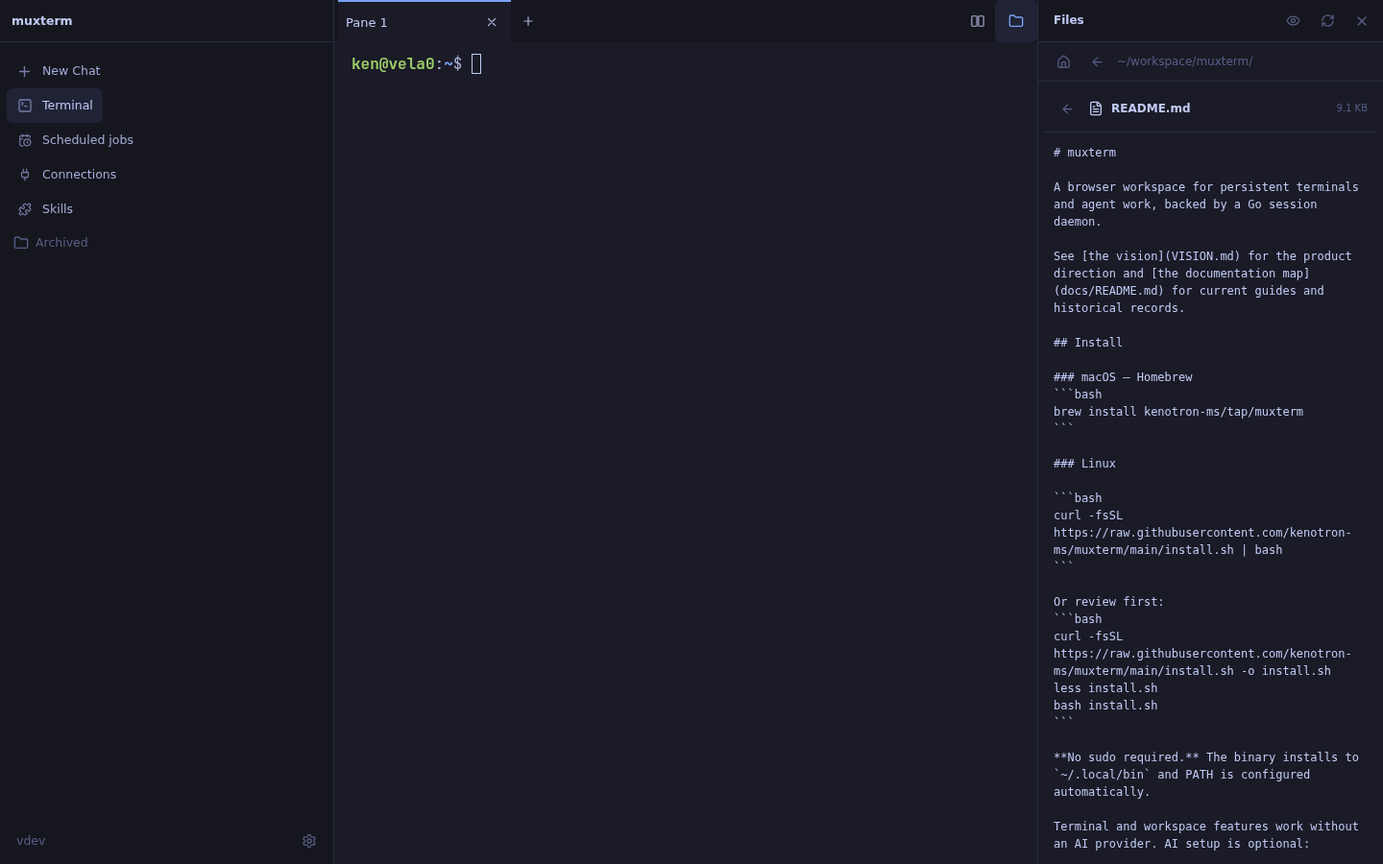
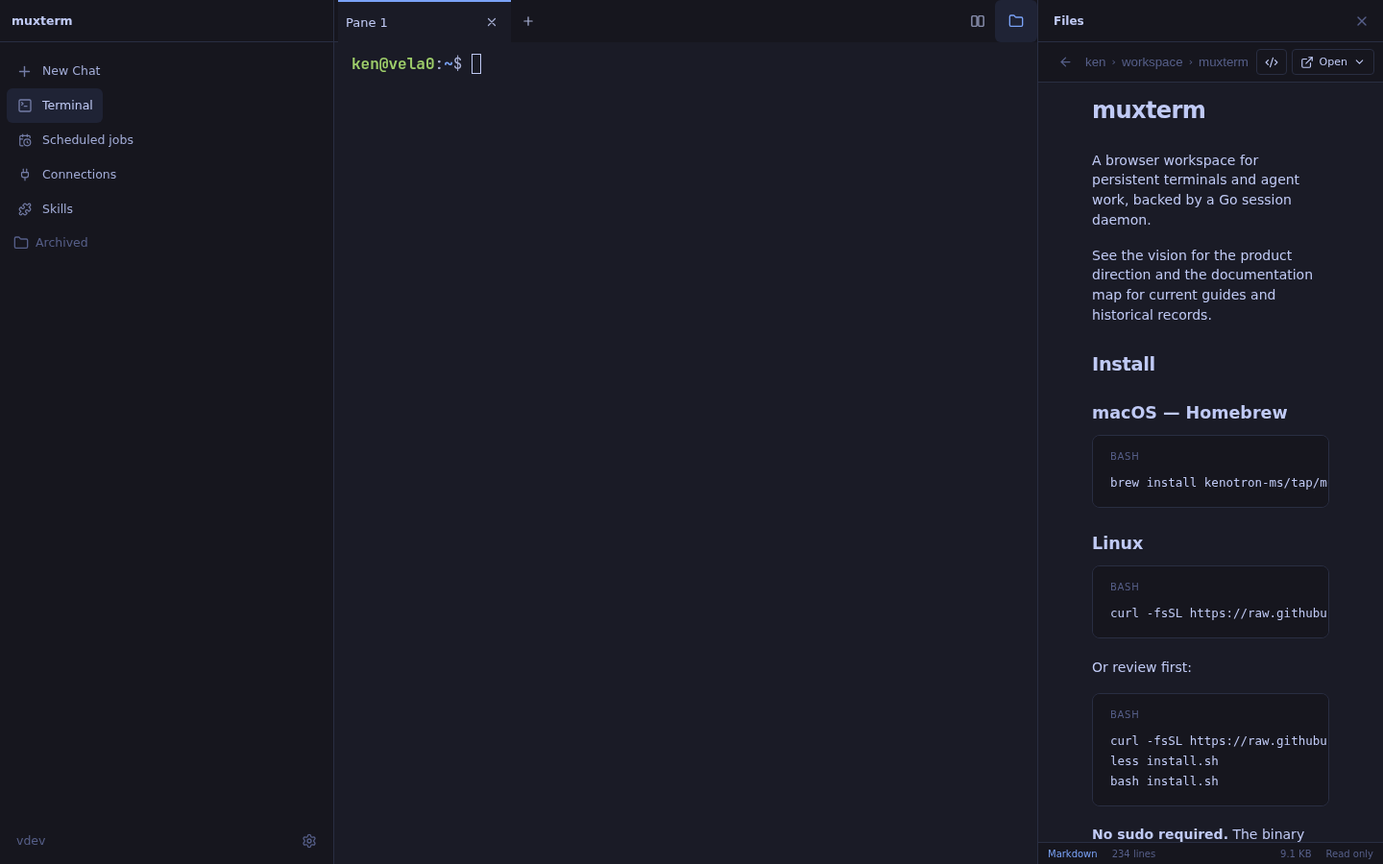
Reuse chat Files viewer for terminal home files

diff --git a/web/src/components/mux-sdk-utility.ts b/web/src/components/mux-sdk-utility.ts
@@ -1,6 +1,6 @@
 import { LitElement, html, nothing, type TemplateResult } from 'lit';
 import { customElement, property } from 'lit/decorators.js';
-import { ChevronDown, ChevronRight, ChevronsDownUp, Code2, Copy, Download, ExternalLink, File, FileImage, FileJson, FileText, Folder, FolderOpen, GitCompare, Maximize2, MessageCircleQuestionMark, Minimize2, Network, NotebookPen, Plus, RefreshCw, Search, Trash2, X, type IconNode } from 'lucide';
+import { ArrowLeft, ChevronDown, ChevronRight, ChevronsDownUp, Code2, Copy, Download, ExternalLink, File, FileImage, FileJson, FileText, Folder, FolderOpen, GitCompare, Maximize2, MessageCircleQuestionMark, Minimize2, Network, NotebookPen, Plus, RefreshCw, Search, Trash2, X, type IconNode } from 'lucide';
 import { apiPath } from '../lib/base-path.js';
 import { icon } from '../lib/icons.js';
 import { parseMarkdown } from '../lib/markdown-stream.js';
@@ -96,6 +96,7 @@ function tableRows(source: string, separator: string): { rows: string[][]; trunc
 export class MuxSDKUtility extends LitElement {
   @property() sessionId = '';
   @property() projectPath = '';
+  @property({ type: Boolean, reflect: true, attribute: 'terminal-mode' }) terminalMode = false;
   @property({ type: Boolean }) focused = false;
   @property({ attribute: false }) touched: string[] = [];
   private tabs: UtilityTab[] = [{ id: crypto.randomUUID(), kind: 'files' }];
@@ -158,6 +159,12 @@ export class MuxSDKUtility extends LitElement {
   override createRenderRoot() { return this; }
   override connectedCallback() {
     super.connectedCallback();
+    if (this.terminalMode) {
+      this.tabs = [{ id:crypto.randomUUID(), kind:'files' }];
+      this.activeTabId = this.tabs[0].id;
+      void this.restoreExplorer('.');
+      return;
+    }
     try {
       const saved = JSON.parse(localStorage.getItem(TABS_KEY + this.sessionId) || 'null') as { tabs?: { id: string; kind: string; pageId?: string; filePath?: string }[]; activeTabId?: string } | null;
       const valid = new Set<string>(['new','files','status','changes','terminal','pages','web']);
@@ -191,6 +198,7 @@ export class MuxSDKUtility extends LitElement {
     super.disconnectedCallback();
   }
   override render() {
+    if (this.terminalMode) return html`<style>${this.surfaceCSS}</style><div class="terminal-files-header"><strong>Files</strong><button class="icon-button" aria-label="Close file explorer" @click=${() => this.dispatchEvent(new CustomEvent('close',{bubbles:true,composed:true}))}>${icon(X,{size:16})}</button></div><div class="utility-body" aria-label="Files">${this.filesView()}</div>`;
     const tab = this.currentTab;
     return html`<style>${this.surfaceCSS}</style><div class="utility-tabs" role="tablist" aria-label="Chat tools">${this.tabs.map(item => html`<div class="utility-tab ${item.id === tab.id ? 'active' : ''}"><button role="tab" title=${item.filePath || this.tabTitle(item)} aria-selected=${String(item.id === tab.id)} @click=${() => this.selectTab(item.id)}>${icon(item.kind === 'files' && item.filePath ? fileGlyph(item.filePath) : TAB_GLYPHS[item.kind],{size:14})}<span>${this.tabTitle(item)}</span></button><button class="tab-close" aria-label=${`Close ${this.tabTitle(item)} tab`} @click=${() => this.closeTab(item.id)}>${icon(X,{size:13})}</button></div>`)}<button class="tab-add" aria-label="New tab" title="New tab" @click=${() => this.addTab()} aria-keyshortcuts="Control+T">${icon(Plus,{size:17})}</button></div><div class="utility-body" role="tabpanel" aria-label=${this.tabTitle(tab)}>${tab.kind === 'new' ? this.newTabView() : tab.kind === 'files' ? this.filesView() : tab.kind === 'status' ? html`<mux-operator-status .sessionId=${this.sessionId}></mux-operator-status>` : tab.kind === 'changes' ? this.changesView() : this.pagesView()}</div>`;
   }
@@ -200,8 +208,9 @@ export class MuxSDKUtility extends LitElement {
     if (tab.kind === 'pages') return this.pages?.find(page => page.id === tab.pageId)?.title || 'Page';
     return ({ status:'Status', changes:'Changes' } as Record<string,string>)[tab.kind] || 'Tab';
   }
-  private saveTabs() { try { localStorage.setItem(TABS_KEY + this.sessionId, JSON.stringify({ tabs:this.tabs, activeTabId:this.activeTabId })); } catch { /* private browsing */ } }
+  private saveTabs() { if (this.terminalMode) return; try { localStorage.setItem(TABS_KEY + this.sessionId, JSON.stringify({ tabs:this.tabs, activeTabId:this.activeTabId })); } catch { /* private browsing */ } }
   private migrateLegacyFile(): boolean {
+    if (this.terminalMode) return false;
     if (!this.sessionId) return false;
     let path = '';
     try { path = localStorage.getItem(this.fileKey()) || ''; } catch { return false; }
@@ -247,7 +256,7 @@ export class MuxSDKUtility extends LitElement {
     return fileLoad;
   }
   private endpoint(kind: string, path?: string) {
-    const base = `/api/sdk-chats/${encodeURIComponent(this.sessionId)}/utility/${kind}`;
+    const base = this.terminalMode ? `/api/terminal/${kind}` : `/api/sdk-chats/${encodeURIComponent(this.sessionId)}/utility/${kind}`;
     return apiPath(base) + (path ? `?${new URLSearchParams({path})}` : '');
   }
   showPanel(id: UtilityTabId): void {
@@ -327,6 +336,7 @@ export class MuxSDKUtility extends LitElement {
     if (this.selected) await this.openFile(this.selected, true);
   }
   private async loadDirectory(path: string, refresh = false) {
+    if (this.terminalMode && this.selected) this.backToTerminalFiles();
     const request = ++this.directoryRequest;
     this.error = '';
     try {
@@ -339,9 +349,10 @@ export class MuxSDKUtility extends LitElement {
       }
       if (request !== this.directoryRequest) return;
       this.listing = listing;
+      if (this.terminalMode) this.projectPath = listing.root;
       this.expandAncestors(listing.path);
       this.expandedDirs.add(listing.path);
-      try { localStorage.setItem(this.pathKey(), listing.path); } catch { /* private browsing */ }
+      if (!this.terminalMode) try { localStorage.setItem(this.pathKey(), listing.path); } catch { /* private browsing */ }
     } catch (error) { if (request === this.directoryRequest) this.error = String(error); }
     this.paintAll();
   }
@@ -363,6 +374,11 @@ export class MuxSDKUtility extends LitElement {
     await this.loadDirectory(path);
   }
   private async openFile(path: string, refresh = false) {
+    if (this.terminalMode) {
+      this.tabs[0].filePath = path;
+      await this.loadFile(path, refresh);
+      return;
+    }
     const current = this.currentTab;
     let tab = this.tabs.find(item => item.kind === 'files' && item.filePath === path);
     if (!tab) tab = current.kind === 'files' && !current.filePath ? current : this.tabs.find(item => item.kind === 'files' && !item.filePath);
@@ -421,6 +437,11 @@ export class MuxSDKUtility extends LitElement {
   private resetFileView() {
     this.fileAbort?.abort(); this.pendingFile++;
     this.selected = ''; this.artifact = undefined; this.localSource = ''; this.pdfBytes = null; this.fileError = '';
+  }
+  private backToTerminalFiles() {
+    this.tabs[0].filePath = undefined;
+    this.resetFileView();
+    this.paintAll();
   }
   private showQuickOpen() {
     this.quickAbort?.abort();
@@ -622,11 +643,12 @@ export class MuxSDKUtility extends LitElement {
     const canOpenInBrowser = !!file && (file.kind === 'image' || !!this.pdfBytes || (!file.tooLarge && !file.binary && (file.kind === 'markdown' || file.kind === 'text')));
     const vsCodeURL = this.vsCodeURL();
     return html`<div class="viewer-header">
+      ${this.terminalMode ? html`<button class="icon-button" aria-label="Back to files" title="Back to files" @click=${() => this.backToTerminalFiles()}>${icon(ArrowLeft,{size:15})}</button>` : nothing}
       <nav class="viewer-path" aria-label="Open file path">${segments.length ? html`<button @click=${() => void this.loadDirectory('.')}>${projectName}</button>${segments.map((part,index) => html`<span>›</span>${index < segments.length-1 ? html`<button @click=${() => void this.loadDirectory(segments.slice(0,index+1).join('/'))}>${part}</button>` : html`<strong>${part}</strong>`}`)}` : html`<span>Open a file to preview it</span>`}</nav>
       <div class="file-header-actions">
-        ${file ? html`<button class="icon-button" aria-label="Ask about file" title="Ask about file" @click=${() => this.askAboutFile()}>${icon(MessageCircleQuestionMark,{size:15})}</button>` : nothing}
+        ${file && !this.terminalMode ? html`<button class="icon-button" aria-label="Ask about file" title="Ask about file" @click=${() => this.askAboutFile()}>${icon(MessageCircleQuestionMark,{size:15})}</button>` : nothing}
         ${hasAlternateView ? html`<button class="file-action-button" aria-label=${this.fileMode === 'preview' ? 'View source' : 'View preview'} @click=${() => this.toggleFileMode()}>${icon(Code2,{size:14})}<span>${this.fileMode === 'preview' ? 'View source' : 'View preview'}</span></button>` : nothing}
-        <button class="icon-button file-browser-toggle ${this.filesRailOpen ? 'active' : ''}" aria-label=${this.filesRailOpen ? 'Hide file browser' : 'Show file browser'} title=${this.filesRailOpen ? 'Hide file browser' : 'Show file browser'} aria-pressed=${String(this.filesRailOpen)} @click=${() => { this.filesRailOpen = !this.filesRailOpen; this.fileMenuOpen = false; this.paintAll(); }}>${icon(Folder,{size:15})}</button>
+        ${!this.terminalMode ? html`<button class="icon-button file-browser-toggle ${this.filesRailOpen ? 'active' : ''}" aria-label=${this.filesRailOpen ? 'Hide file browser' : 'Show file browser'} title=${this.filesRailOpen ? 'Hide file browser' : 'Show file browser'} aria-pressed=${String(this.filesRailOpen)} @click=${() => { this.filesRailOpen = !this.filesRailOpen; this.fileMenuOpen = false; this.paintAll(); }}>${icon(Folder,{size:15})}</button>` : nothing}
         ${file ? html`<div class="file-open-wrap">
           <button class="file-open-button" aria-label="Open file options" title="Open file options" aria-haspopup="menu" aria-expanded=${String(this.fileMenuOpen)} @click=${() => { this.fileMenuOpen = !this.fileMenuOpen; this.paintAll(); }}>${icon(ExternalLink,{size:14})}<span>Open</span>${icon(ChevronDown,{size:13})}</button>
           ${this.fileMenuOpen ? html`<div class="file-open-menu" role="menu" aria-label="Open file">
@@ -637,8 +659,8 @@ export class MuxSDKUtility extends LitElement {
             <a role="menuitem" href=${this.endpoint('raw', this.selected)} download=${file.name} @click=${() => { this.fileMenuOpen = false; }}>${icon(Download,{size:14})}Download file</a>
             <div class="file-menu-divider"></div>
             <button role="menuitem" @click=${() => { this.fileMenuOpen = false; void this.openFile(this.selected, true); }}>${icon(RefreshCw,{size:14})}Refresh file</button>
-            <button role="menuitem" @click=${() => { this.fileMenuOpen = false; this.dispatchEvent(new CustomEvent('sdk-file-focus',{bubbles:true,composed:true})); }}>${icon(this.focused ? Minimize2 : Maximize2,{size:14})}${this.focused ? 'Show chat beside files' : 'Focus file viewer'}</button>
-            <button role="menuitem" @click=${() => { this.fileMenuOpen = false; this.closeTab(this.currentTab.id); }}>${icon(X,{size:14})}Close file</button>
+            ${!this.terminalMode ? html`<button role="menuitem" @click=${() => { this.fileMenuOpen = false; this.dispatchEvent(new CustomEvent('sdk-file-focus',{bubbles:true,composed:true})); }}>${icon(this.focused ? Minimize2 : Maximize2,{size:14})}${this.focused ? 'Show chat beside files' : 'Focus file viewer'}</button>` : nothing}
+            <button role="menuitem" @click=${() => { this.fileMenuOpen = false; if (this.terminalMode) this.backToTerminalFiles(); else this.closeTab(this.currentTab.id); }}>${icon(X,{size:14})}Close file</button>
           </div>` : nothing}
         </div>` : nothing}
       </div>
@@ -650,7 +672,7 @@ export class MuxSDKUtility extends LitElement {
     const projectName = (this.projectPath || this.listing?.root || 'Project').split('/').filter(Boolean).pop() || 'Project';
     const segments = this.selected.split('/').filter(Boolean);
     const tree = this.treeRows('.');
-    return html`<section class="files-panel split-panel ${this.filesRailOpen ? '' : 'rail-closed'}" style=${`--rail-width:${this.railWidths.files}px`} @click=${(event: MouseEvent) => { if (this.fileMenuOpen && !(event.target as HTMLElement).closest(".file-open-wrap")) { this.fileMenuOpen = false; this.paintAll(); } }} @keydown=${(event: KeyboardEvent) => {
+    return html`<section class="files-panel split-panel ${this.filesRailOpen ? '' : 'rail-closed'} ${this.terminalMode && this.selected ? 'terminal-preview' : ''}" style=${`--rail-width:${this.railWidths.files}px`} @click=${(event: MouseEvent) => { if (this.fileMenuOpen && !(event.target as HTMLElement).closest(".file-open-wrap")) { this.fileMenuOpen = false; this.paintAll(); } }} @keydown=${(event: KeyboardEvent) => {
       if ((event.ctrlKey || event.metaKey) && event.key.toLowerCase() === 'p') { event.preventDefault(); this.showQuickOpen(); }
       if (event.key === 'Escape') { if (this.quickOpen) this.hideQuickOpen(); else if (this.fileMenuOpen) { this.fileMenuOpen = false; this.paintAll(); queueMicrotask(() => this.querySelector<HTMLButtonElement>('.file-open-button')?.focus()); } }
     }}>
@@ -664,8 +686,8 @@ export class MuxSDKUtility extends LitElement {
         <div class="browser-heading"><div class="explorer-label">FILES</div><div class="explorer-actions"><button class="icon-button" aria-label="Quick open file" title="Quick Open · Ctrl+P" @click=${() => this.showQuickOpen()}>${icon(Search,{size:15})}</button><button class="icon-button" aria-label="Refresh file tree" title="Refresh file tree" @click=${() => void this.refreshTree()}>${icon(RefreshCw,{size:15})}</button><button class="icon-button" aria-label="Collapse folders" title="Collapse folders" @click=${() => { this.expandedDirs = new Set(['.']); this.paintAll(); }}>${icon(ChevronsDownUp,{size:15})}</button></div></div>
         <div class="browser-tools"><span class="search-symbol">${icon(Search,{size:14})}</span><input type="search" aria-label="Filter visible files" placeholder="Filter files…" .value=${this.fileQuery} @input=${(event: InputEvent) => { this.fileQuery = (event.target as HTMLInputElement).value; this.paintAll(); }}><select aria-label="Sort files" .value=${this.fileSort} @change=${(event: Event) => { this.fileSort = (event.target as HTMLSelectElement).value as typeof this.fileSort; this.paintAll(); }}><option value="name">Name</option><option value="recent">Recent</option><option value="size">Size</option></select></div>
         ${this.touched.length ? html`<div class="touched-files"><h3>Changed files <span>${this.touched.length}</span></h3>${this.touched.map(path => html`<button class="touched-entry" title=${path} @click=${() => void this.revealFile(path)}><span class="tree-chevron"></span><span class="file-glyph">${icon(fileGlyph(path),{size:14})}</span><span class="file-name">${path}</span></button>`)}</div>` : nothing}
-        <button class="project-heading" title=${this.listing?.root || this.projectPath} @click=${() => { if (this.expandedDirs.has('.')) this.expandedDirs.delete('.'); else this.expandedDirs.add('.'); this.paintAll(); }} aria-expanded=${String(this.expandedDirs.has('.'))}><span class="tree-chevron">${icon(this.expandedDirs.has('.') ? ChevronDown : ChevronRight,{size:13})}</span><span class="file-glyph">${icon(Folder,{size:16})}</span><span class="file-name">All files</span></button>
-        <div class="file-list" role="tree" aria-label="Project files" @keydown=${(event: KeyboardEvent) => this.onTreeKey(event)}>${this.expandedDirs.has('.') ? tree : nothing}${this.error ? html`<p class="empty">${this.error}</p>` : nothing}${this.listing && !tree.length ? html`<p class="empty">${this.fileQuery ? 'No files match this filter.' : 'This folder is empty.'}</p>` : nothing}${[...this.directoryCache.values()].some(item => item.truncated) ? html`<p class="empty">Some folders show only their first 500 entries.</p>` : nothing}</div>
+        <button class="project-heading" title=${this.listing?.root || this.projectPath} @click=${() => { if (this.expandedDirs.has('.')) this.expandedDirs.delete('.'); else this.expandedDirs.add('.'); this.paintAll(); }} aria-expanded=${String(this.expandedDirs.has('.'))}><span class="tree-chevron">${icon(this.expandedDirs.has('.') ? ChevronDown : ChevronRight,{size:13})}</span><span class="file-glyph">${icon(Folder,{size:16})}</span><span class="file-name">${this.terminalMode ? 'Home · ~/' : 'All files'}</span></button>
+        <div class="file-list" role="tree" aria-label=${this.terminalMode ? 'Home files' : 'Project files'} @keydown=${(event: KeyboardEvent) => this.onTreeKey(event)}>${this.expandedDirs.has('.') ? tree : nothing}${this.error ? html`<p class="empty">${this.error}</p>` : nothing}${this.listing && !tree.length ? html`<p class="empty">${this.fileQuery ? 'No files match this filter.' : 'This folder is empty.'}</p>` : nothing}${[...this.directoryCache.values()].some(item => item.truncated) ? html`<p class="empty">Some folders show only their first 500 entries.</p>` : nothing}</div>
       </div>` : nothing}
       ${this.quickOpen ? html`<div class="quick-overlay" @click=${(event: MouseEvent) => { if (event.target === event.currentTarget) this.hideQuickOpen(); }}><div class="quick-open" role="dialog" aria-label="Quick Open"><div class="quick-input">${icon(Search,{size:18})}<input type="search" aria-label="Search project files" placeholder="Search files by name…" .value=${this.quickQuery} @input=${(event: InputEvent) => this.searchQuickOpen((event.target as HTMLInputElement).value)} @keydown=${(event: KeyboardEvent) => { if (event.key === 'ArrowDown' || event.key === 'ArrowUp') { event.preventDefault(); this.quickIndex = Math.max(0,Math.min(this.quickResults.length-1,this.quickIndex+(event.key === 'ArrowDown' ? 1 : -1))); this.paintAll(); } else if (event.key === 'Enter' && this.quickResults[this.quickIndex]) { event.preventDefault(); void this.revealFile(this.quickResults[this.quickIndex].path); } }}><kbd>ESC</kbd></div><div class="quick-results">${this.quickLoading ? html`<p>Searching project…</p>` : this.quickError ? html`<p>${this.quickError}</p>` : this.quickResults.length ? this.quickResults.map((result,index) => html`<button class=${index === this.quickIndex ? 'active' : ''} @mouseenter=${() => { this.quickIndex = index; }} @click=${() => void this.revealFile(result.path)}>${icon(fileGlyph(result.name),{size:16})}<span><strong>${result.name}</strong><small>${result.path}</small></span><em>${readableSize(result.size)}</em></button>`) : html`<p>${this.quickQuery.trim().length < 2 ? 'Type at least two characters to search the project.' : 'No matching files.'}</p>`}${this.quickTruncated && !this.quickLoading ? html`<p>Showing the first matches. Narrow your search for more.</p>` : nothing}</div></div></div>` : nothing}
     </section>`;
@@ -1019,5 +1041,12 @@ export class MuxSDKUtility extends LitElement {
     @container(max-width:650px) { mux-sdk-utility .files-panel { grid-template-columns:minmax(0,1fr); grid-template-rows:minmax(0,1fr) minmax(170px,38%); } mux-sdk-utility .files-panel.rail-closed { grid-template-rows:minmax(0,1fr); } mux-sdk-utility .files-panel .vertical-resizer { display:none; } mux-sdk-utility .files-panel .browser { border-left:0; border-top:1px solid var(--chrome-border); } }
     @container(max-width:430px) { mux-sdk-utility .file-action-button span { display:none; } }
     @container(max-width:520px) { mux-sdk-utility .changes-panel, mux-sdk-utility .pages-panel { grid-template-columns:minmax(0,1fr); grid-template-rows:minmax(170px,38%) minmax(0,1fr); } mux-sdk-utility .pages-panel.rail-closed { grid-template-rows:minmax(0,1fr); } mux-sdk-utility .changes-panel .vertical-resizer, mux-sdk-utility .pages-panel .vertical-resizer { display:none; } mux-sdk-utility .changes-list, mux-sdk-utility .pages-list { border-bottom:1px solid var(--chrome-border); } }
+    mux-sdk-utility[terminal-mode] .terminal-files-header { box-sizing:border-box; height:var(--mux-titlebar-height,44px); flex:none; display:flex; align-items:center; justify-content:space-between; padding:0 max(8px,var(--wco-right-inset,0px)) 0 16px; border-bottom:1px solid var(--chrome-border); background:var(--mux-titlebar-bg,var(--chrome-bar)); font:650 12px system-ui,sans-serif; }
+    mux-sdk-utility[terminal-mode] .files-panel { display:block; }
+    mux-sdk-utility[terminal-mode] .files-panel > .vertical-resizer { display:none; }
+    mux-sdk-utility[terminal-mode] .files-panel > .browser { height:100%; border:0; }
+    mux-sdk-utility[terminal-mode] .files-panel > .viewer { display:none; height:100%; }
+    mux-sdk-utility[terminal-mode] .files-panel.terminal-preview > .browser { display:none; }
+    mux-sdk-utility[terminal-mode] .files-panel.terminal-preview > .viewer { display:flex; }
   `;
 }

diff --git a/web/src/app.ts b/web/src/app.ts
@@ -44,7 +44,7 @@ import './components/mux-new-chat.js';
 import './components/mux-scheduled-jobs.js';
 import './components/mux-connections.js';
 import './components/mux-skills.js';
-import './components/mux-terminal-files.js';
+import './components/mux-sdk-utility.js';
 import { homeSessions } from './lib/home-sessions.js';
 import { remotesStore } from './lib/remotes-store.js';
 import type { SessionState } from './lib/session-state.js';
@@ -608,7 +608,7 @@ export class MuxApp extends LitElement {
     .terminal-session { flex:1; min-height:0; min-width:0; display:flex; position:relative; }
     .terminal-session > mux-dock { width:0; min-width:0; flex:1 1 auto; }
     .terminal-utility { box-sizing:border-box; width:min(360px,42%); min-width:270px; flex:none; display:flex; flex-direction:column; border-left:1px solid var(--chrome-border); background:var(--chrome-body); color:var(--chrome-text-bright); }
-    .terminal-utility > mux-terminal-files { min-height:0; flex:1; }
+    .terminal-utility > mux-sdk-utility { min-height:0; flex:1; }
     @media(max-width:767.98px) { .terminal-utility { position:absolute; z-index:6; top:0; right:0; bottom:0; width:min(88%,360px); min-width:0; box-shadow:-10px 0 25px #0005; } }
 
     /* Keep the 4px resize target, but continue the title bar across its top.
@@ -1712,7 +1712,7 @@ export class MuxApp extends LitElement {
                 ></mux-dock>
                 ${this._terminalUtilityOpen && !this._sdkChatId ? html`
                   <aside class="terminal-utility" aria-label="File explorer">
-                    <mux-terminal-files @close="${() => { this._terminalUtilityOpen = false; }}"></mux-terminal-files>
+                    <mux-sdk-utility terminal-mode .sessionId=${'terminal'} @close="${() => { this._terminalUtilityOpen = false; }}"></mux-sdk-utility>
                   </aside>
                 ` : ''}
               </div>

diff --git a/internal/server/terminal_files.go b/internal/server/terminal_files.go
@@ -1,137 +1,60 @@
 package server
 
 import (
-	"errors"
-	"io"
 	"net/http"
 	"os"
-	"path/filepath"
-	"sort"
-	"strings"
 )
 
-// The terminal explorer is local and read-only. os.Root keeps every requested
-// path inside the serve process's home directory, including through symlinks.
-func terminalHomeRoot() (*os.Root, bool) {
+// Terminal Files uses the same bounded, read-only viewer handlers as chat
+// Files, with the serve process's home directory as its root.
+func terminalHomeRoot(w http.ResponseWriter) (*os.Root, string, bool) {
 	home, err := os.UserHomeDir()
 	if err != nil || home == "" {
-		return nil, false
+		http.Error(w, "Home folder unavailable", http.StatusNotFound)
+		return nil, "", false
 	}
 	root, err := os.OpenRoot(home)
-	return root, err == nil
-}
-
-func terminalRelativePath(r *http.Request) (string, bool) {
-	path := r.URL.Query().Get("path")
-	if path == "" {
-		return ".", true
+	if err != nil {
+		http.Error(w, "Home folder unavailable", http.StatusNotFound)
+		return nil, "", false
 	}
-	return path, filepath.IsLocal(path)
+	return root, home, true
 }
 
 func (s *Server) handleTerminalFiles(w http.ResponseWriter, r *http.Request) {
-	root, ok := terminalHomeRoot()
+	root, home, ok := terminalHomeRoot(w)
 	if !ok {
-		http.Error(w, "Home folder unavailable", http.StatusNotFound)
 		return
 	}
 	defer root.Close()
-	path, ok := terminalRelativePath(r)
-	if !ok {
-		http.Error(w, "Invalid folder path", http.StatusBadRequest)
-		return
-	}
-	dir, err := root.Open(path)
-	if err != nil {
-		http.Error(w, "Folder unavailable", http.StatusNotFound)
-		return
-	}
-	defer dir.Close()
-	info, err := dir.Stat()
-	if err != nil || !info.IsDir() {
-		http.Error(w, "Folder unavailable", http.StatusNotFound)
-		return
-	}
-	entries, err := dir.ReadDir(500)
-	if err != nil && !errors.Is(err, io.EOF) {
-		http.Error(w, "Folder unavailable", http.StatusInternalServerError)
-		return
-	}
-	type row struct {
-		Name string `json:"name"`
-		Dir  bool   `json:"dir"`
-		Size int64  `json:"size"`
-	}
-	rows := make([]row, 0, len(entries))
-	for _, entry := range entries {
-		name := entry.Name()
-		child, err := root.Open(filepath.Join(path, name))
-		if err != nil {
-			continue
-		}
-		stat, err := child.Stat()
-		child.Close()
-		if err != nil || (!stat.IsDir() && !stat.Mode().IsRegular()) {
-			continue
-		}
-		rows = append(rows, row{Name: name, Dir: stat.IsDir(), Size: stat.Size()})
-	}
-	sort.Slice(rows, func(i, j int) bool {
-		if rows[i].Dir != rows[j].Dir {
-			return rows[i].Dir
-		}
-		return strings.ToLower(rows[i].Name) < strings.ToLower(rows[j].Name)
-	})
-	truncated := false
-	if len(entries) == 500 {
-		more, readErr := dir.ReadDir(1)
-		truncated = readErr == nil && len(more) > 0
-	}
 	w.Header().Set("Cache-Control", "no-store")
-	writeArtifactJSON(w, http.StatusOK, map[string]any{"path": path, "entries": rows, "truncated": truncated})
+	serveUtilityFiles(w, r, root, home)
 }
 
-const terminalPreviewLimit = 256 << 10
-
-func (s *Server) handleTerminalFile(w http.ResponseWriter, r *http.Request) {
-	root, ok := terminalHomeRoot()
+func (s *Server) handleTerminalSearch(w http.ResponseWriter, r *http.Request) {
+	root, _, ok := terminalHomeRoot(w)
 	if !ok {
-		http.Error(w, "Home folder unavailable", http.StatusNotFound)
 		return
 	}
 	defer root.Close()
-	path, ok := terminalRelativePath(r)
-	if !ok || path == "." {
-		http.Error(w, "Invalid file path", http.StatusBadRequest)
-		return
-	}
-	file, err := root.Open(path)
-	if err != nil {
-		http.Error(w, "File unavailable", http.StatusNotFound)
-		return
-	}
-	defer file.Close()
-	info, err := file.Stat()
-	if err != nil || !info.Mode().IsRegular() {
-		http.Error(w, "File unavailable", http.StatusNotFound)
-		return
-	}
-	result := map[string]any{"path": path, "name": filepath.Base(path), "size": info.Size(), "text": "", "tooLarge": info.Size() > terminalPreviewLimit, "binary": false}
-	if info.Size() <= terminalPreviewLimit {
-		data, err := io.ReadAll(io.LimitReader(file, terminalPreviewLimit+1))
-		if err != nil {
-			http.Error(w, "File unavailable", http.StatusInternalServerError)
-			return
-		}
-		if len(data) > terminalPreviewLimit {
-			result["tooLarge"] = true
-		} else if isProbablyUTF8Text(data) {
-			result["text"] = string(data)
-		} else {
-			result["binary"] = true
-		}
-	}
 	w.Header().Set("Cache-Control", "no-store")
-	w.Header().Set("X-Content-Type-Options", "nosniff")
-	writeArtifactJSON(w, http.StatusOK, result)
+	serveUtilitySearch(w, r, root)
+}
+
+func (s *Server) handleTerminalFile(w http.ResponseWriter, r *http.Request) {
+	root, _, ok := terminalHomeRoot(w)
+	if !ok {
+		return
+	}
+	defer root.Close()
+	serveUtilityFile(w, r, root, false)
+}
+
+func (s *Server) handleTerminalRaw(w http.ResponseWriter, r *http.Request) {
+	root, _, ok := terminalHomeRoot(w)
+	if !ok {
+		return
+	}
+	defer root.Close()
+	serveUtilityFile(w, r, root, true)
 }

diff --git a/internal/server/sdk_chat_utility.go b/internal/server/sdk_chat_utility.go
@@ -89,6 +89,10 @@ func (s *Server) handleSDKUtilityFiles(w http.ResponseWriter, r *http.Request) {
 		return
 	}
 	defer root.Close()
+	serveUtilityFiles(w, r, root, project)
+}
+
+func serveUtilityFiles(w http.ResponseWriter, r *http.Request, root *os.Root, project string) {
 	rel, ok := utilityRelative(r)
 	if !ok {
 		http.Error(w, "Path leaves the project folder", 400)
@@ -158,6 +162,10 @@ func (s *Server) handleSDKUtilitySearch(w http.ResponseWriter, r *http.Request) 
 		return
 	}
 	defer root.Close()
+	serveUtilitySearch(w, r, root)
+}
+
+func serveUtilitySearch(w http.ResponseWriter, r *http.Request, root *os.Root) {
 	query := strings.ToLower(strings.TrimSpace(r.URL.Query().Get("q")))
 	if len(query) < 2 || len(query) > 128 {
 		http.Error(w, "Search query must be 2–128 characters", http.StatusBadRequest)
@@ -258,6 +266,10 @@ func (s *Server) sdkUtilityFile(w http.ResponseWriter, r *http.Request, raw bool
 		return
 	}
 	defer root.Close()
+	serveUtilityFile(w, r, root, raw)
+}
+
+func serveUtilityFile(w http.ResponseWriter, r *http.Request, root *os.Root, raw bool) {
 	rel, ok := utilityRelative(r)
 	if !ok || rel == "." {
 		http.Error(w, "Path leaves the project folder", 400)

diff --git a/internal/server/server.go b/internal/server/server.go
@@ -405,7 +405,9 @@ func New(cfg Config) *Server {
 	s.mux.Handle("GET /api/sdk-chats/{id}/utility/raw", protect(http.HandlerFunc(s.handleSDKUtilityRaw)))
 	s.mux.Handle("GET /api/sdk-chats/{id}/utility/pr", protect(http.HandlerFunc(s.handleSDKUtilityPR)))
 	s.mux.Handle("GET /api/terminal/files", protect(http.HandlerFunc(s.handleTerminalFiles)))
+	s.mux.Handle("GET /api/terminal/search", protect(http.HandlerFunc(s.handleTerminalSearch)))
 	s.mux.Handle("GET /api/terminal/file", protect(http.HandlerFunc(s.handleTerminalFile)))
+	s.mux.Handle("GET /api/terminal/raw", protect(http.HandlerFunc(s.handleTerminalRaw)))
 	s.mux.Handle("POST /api/sdk-chats/{id}/control-send", protect(http.HandlerFunc(s.handleSDKControlSend)))
 	s.mux.Handle("GET /api/sdk-chats/{id}/control-history", protect(http.HandlerFunc(s.handleSDKControlHistory)))
 	s.mux.Handle("GET /api/sdk-chats/{id}/goal", protect(http.HandlerFunc(s.handleSDKGoal)))
